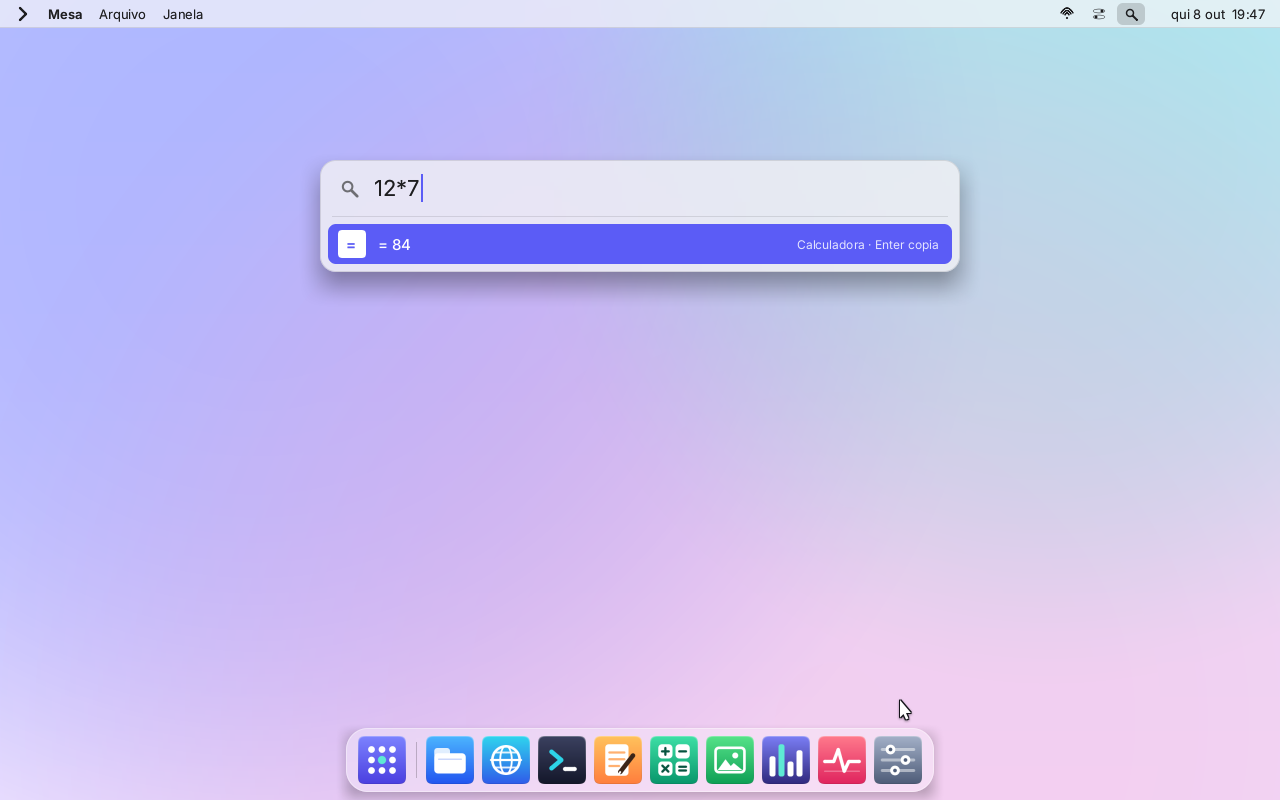
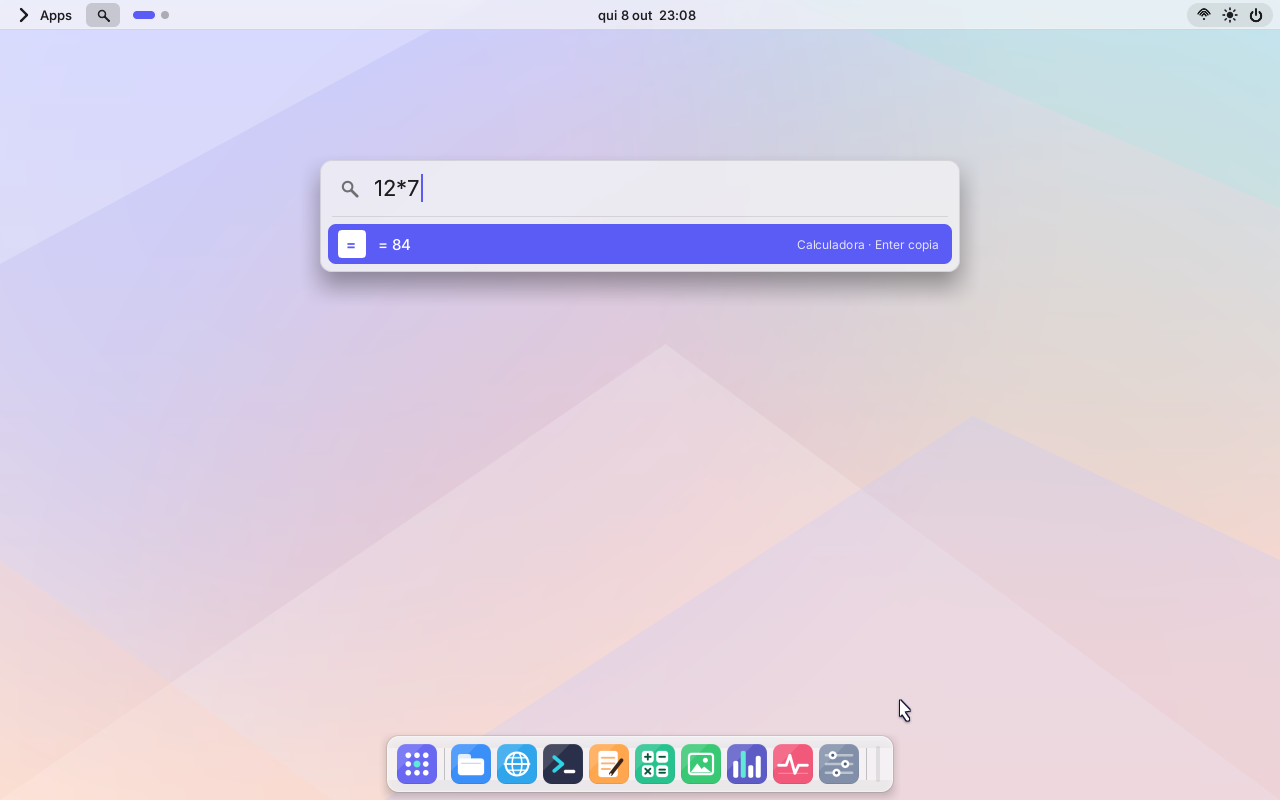
docs(design): identity result against our screenshots, README screenshots of the new shell
Section 7 of ui-identity.md compares the final dark and light screenshots with
the six references item by item and lists what is not done (persistence of the
pinned order and of window workspaces, middle click, thumbnails, the demo gif).
The README screenshots (desktop, Apps, Busca, files, browser, settings, quick
settings, monitor, gallery) are regenerated from the new shell with
tools/perf/scen/w22-readme.sh in UEFI, dark and light.

Verified: cargo fmt --check; cd fuzz && cargo fuzz build succeeds; the
screenshots come from the BIOS/UEFI image built from this tree.

Claude-Session: https://claude.ai/code/session_01Sgh2ypc5vk5aZPwJx7K5Jy

diff --git a/docs/design/ui-identity.md b/docs/design/ui-identity.md
@@ -40,7 +40,7 @@ the Quick Settings tile grid; KDE the launcher with a category rail.
 | Notifications | banners top right, centre in a side panel | banners bottom right, centre with the calendar | banners top centre, list under the calendar | popup + history in the tray | similar | **Calendar + notification centre popover from the clock** (GNOME/Windows 11), a *Não perturbe* switch, banners keep sliding in at the top right under the panel |
 | Quick settings | Control Center (tile + slider grid) | tile grid + sliders flyout | Quick Settings pill + grid | tray popups | tray applets | **Quick Settings pill** in the panel opening a tile grid: Rede, Aparência (Claro / Escuro), Reduzir movimento, Não perturbar, Relógio 24 h, Reiniciar / Desligar. No sliders (no volume or brightness hardware to drive) |
 | Window snapping | none native (tiling since Sequoia) | drag to edge: halves, quarters, maximise; snap layouts | half tiling to edges, maximise at top | quick tile to edges and corners | edge tiling | **Windows 11 / KDE model**: top edge = maximise, left / right = half, corners = quarter, an **animated translucent preview**, `Alt+arrows`; geometry respects the work area (panel and taskbar) |
-| Workspaces | Spaces (Ctrl+arrows) | virtual desktops | dynamic workspaces, Ctrl+Alt+arrows | virtual desktops | workspaces | **2-4 workspaces**, `Ctrl+Alt+Left/Right`, a dot indicator in the panel, slide transition, `Ctrl+Alt+Shift+arrows` moves a window (see section 6 for status) |
+| Workspaces | Spaces (Ctrl+arrows) | virtual desktops | dynamic workspaces, Ctrl+Alt+arrows | virtual desktops | workspaces | **2-4 workspaces**, `Ctrl+Alt+Left/Right`, a dot indicator in the panel, slide transition, `Ctrl+Alt+Shift+arrows` moves a window (see section 5) |
 | Search | Spotlight (centre field) | search in Start / taskbar | type in the overview | KRunner | menu search | **Busca** (`Ctrl+Space`) stays: a centred field with apps, files and sums; the launcher has its own filter field |
 | File dialogs | sheets slide from the title bar | modal window | modal with headerbar | modal | modal | unchanged (owned by the apps work); sheets stay centred modals |
 
@@ -67,7 +67,7 @@ the Quick Settings tile grid; KDE the launcher with a category rail.
 |---|---|
 | Panel | 30 px high, full width, translucent over a lightly blurred strip, 1 px bottom hairline |
 | Title bar | 32 px (`TITLE_H`, unchanged: apps keep drawing under `r.body()`), buttons 40x32, menu button 32x32 |
-| Taskbar | icons 40, gap 6, padding 10/8, 8 px above the bottom, radius 12, sliver 12 px |
+| Taskbar | icons 40, gap 6, padding 10/8, 8 px above the bottom, radius 12, sliver 10 px |
 | Snap zones | 6 px at the screen edges (top / left / right), corner zones 48 px along the edges |
 | Work area | below the panel, above the taskbar (plus 8 px), full width |
 
@@ -92,7 +92,7 @@ light and in dark):
 The result of this comparison is recorded in `CHANGELOG.md` and in the section "Result" at the
 end of this file once the last step lands.
 
-## 6. Workspaces (step g: done)
+## 5. Workspaces (step g: done)
 
 2 to 4 virtual desktops, `Ctrl+Alt+Left/Right`, a dot indicator in the panel (the current one is a
 pill; a dot is stronger when its workspace holds windows; click to go), a sideways slide with a fade
@@ -101,7 +101,7 @@ follows it). Opening, activating from the taskbar or Alt+Tab a window of another
 workspace. The structure allowed it cleanly: `Window::{ws, off_ws}` and
 `WindowManager::{switch_workspace, move_to_workspace, visible_workspaces}`, all pure and tested.
 
-## 5. Implementation order (small verified commits)
+## 6. Implementation order (small verified commits)
 
 a. this document; b. controls at the right, left titles, title-bar menu button, edge snapping
 with preview and `Alt+arrow`; c. top panel, calendar + notification centre, Quick Settings
@@ -110,3 +110,32 @@ wallpapers, radii and borders; f. launcher categories; g. workspaces.
 
 `Alt+Left` / `Alt+Right` keep going back / forward in the Navegador when it is focused (the
 browser claimed them first); `Alt+Shift+arrows` snaps in every window, including the browser.
+
+## 7. Result: the checklist against our own screenshots
+
+Checked on the final screenshots (`tools/perf/scen/w26-*.sh`, `w22-readme.sh`; dark and light; BIOS
+1280x720 and UEFI 1280x800) against the six references of section 0:
+
+| # | Item | Result |
+|---|---|---|
+| 1 | controls are flat glyphs, at the right | yes: menu, minimise, maximise / restore and close at the right, red close hover; no dots |
+| 2 | no global menu bar or bold app name | yes: Apps, Busca and the workspace dots at the left, per-app menus behind the window's menu button |
+| 3 | title left-aligned next to an icon | yes (app tile, Medium title) |
+| 4 | no magnification, no gloss squircle dock | yes: floating taskbar of flat tiles with pill and dot indicators |
+| 5 | wallpaper is not a purple-blue wave | yes: six original presets; the default is a dusk gradient with geometric facets (it is purple at night, so it is the preset closest to a macOS mood by colour, but the shapes are angular facets, not a wave) |
+| 6 | pointer silhouette not Apple's | yes: a slim dart with a round-capped tail and an indigo outline |
+| 7 | clock in the centre | yes |
+| 8 | launcher with a category rail | yes |
+| 9 | Quick Settings and the calendar are popovers of the panel | yes: a tile grid and a two-column calendar with notifications |
+| 10 | shared ergonomics acknowledged | rounded windows, soft shadows and springs remain, as every modern desktop has them |
+
+What still echoes the references on purpose: the taskbar's centred floating form (Windows 11, elementary),
+the centred clock with a notification popover (GNOME), the category rail (KDE) and edge snapping
+(Windows 11 / KDE). What is new is the combination and the signature details: the accent line on the
+focused title bar, the flat faceted tiles, the dart pointer, the workspace dots in the panel and the
+Shell tab of the component gallery that documents them.
+
+Not done: persistence of the pinned order and of the workspace of each window across reboots; middle
+click on a taskbar icon (the pointer driver reports only the left and right buttons: Shift+click opens a
+new window instead); window thumbnails in the taskbar menu (titles only); `docs/img/demo.gif` still shows
+the first shell.

diff --git a/README.md b/README.md
@@ -15,7 +15,7 @@
 
 **🇧🇷 Português** · [🇺🇸 English](README.en.md)
 
-<img src="docs/img/demo.gif" alt="OSjeff em ação: barra de apps, editor, Busca, calculadora, tema claro e escuro" width="760">
+<img src="docs/img/demo.gif" alt="OSjeff em ação: barra de tarefas, editor, Busca, calculadora, tema claro e escuro" width="760">
 
 </div>
 

diff --git a/README.en.md b/README.en.md
@@ -15,7 +15,7 @@
 
 [🇧🇷 Português](README.md) · **🇺🇸 English**
 
-<img src="docs/img/demo.gif" alt="OSjeff in action: the app bar, the editor, Search, the calculator, light and dark" width="760">
+<img src="docs/img/demo.gif" alt="OSjeff in action: the taskbar, the editor, Search, the calculator, light and dark" width="760">
 
 </div>
 
